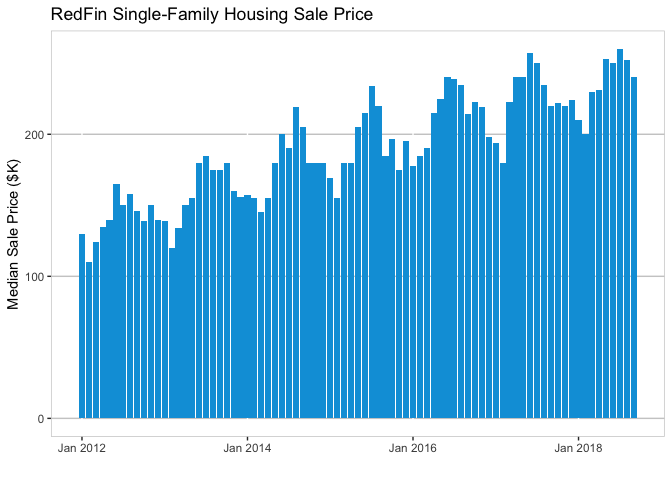
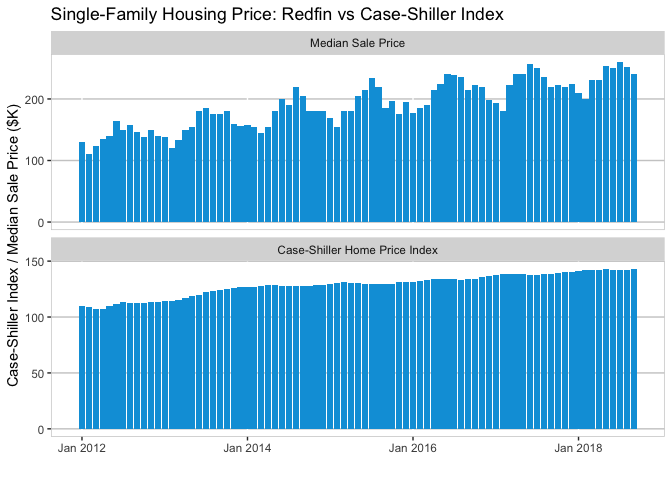
update

Changed region(s): [[0.0, 0.1562, 1.0, 0.8125], [0.0625, 0.0, 1.0, 0.3438], [0.0625, 0.8438, 0.9688, 0.9062]]

diff --git a/predict-case-shiller-index.md b/predict-case-shiller-index.md
@@ -10,51 +10,15 @@ Redfin data center provides monthly real estate information of houses listed on 
 Data Preprocessing
 ==================
 
-This exercise uses Case-Shiller Home Price Index of Chicago downloaded from FRED database using *quantmod* package and Redfin single-family home listing data download from [Redfin Data Center](https://www.redfin.com/blog/data-center).
+This exercise uses Case-Shiller Home Price Index of Chicago downloaded from FRED database using *quantmod* package and Redfin single-family home Chicago listing data downloaded from [Redfin Data Center](https://www.redfin.com/blog/data-center).
 
 ``` r
 # data preprocessing
 require(quantmod)
-```
-
-    ## Loading required package: quantmod
-
-    ## Loading required package: xts
-
-    ## Loading required package: zoo
-
-    ## 
-    ## Attaching package: 'zoo'
-
-    ## The following objects are masked from 'package:base':
-    ## 
-    ##     as.Date, as.Date.numeric
-
-    ## 
-    ## Attaching package: 'xts'
-
-    ## The following objects are masked from 'package:dplyr':
-    ## 
-    ##     first, last
-
-    ## Loading required package: TTR
-
-    ## Version 0.4-0 included new data defaults. See ?getSymbols.
-
-``` r
 require(zoo)
 # download case-shiller housing price index Chicago seasonally adjusted
 getSymbols('CHXRSA', src='FRED')
 ```
-
-    ## 'getSymbols' currently uses auto.assign=TRUE by default, but will
-    ## use auto.assign=FALSE in 0.5-0. You will still be able to use
-    ## 'loadSymbols' to automatically load data. getOption("getSymbols.env")
-    ## and getOption("getSymbols.auto.assign") will still be checked for
-    ## alternate defaults.
-    ## 
-    ## This message is shown once per session and may be disabled by setting 
-    ## options("getSymbols.warning4.0"=FALSE). See ?getSymbols for details.
 
     ## [1] "CHXRSA"
 
@@ -67,23 +31,11 @@ rfDf$Month.of.Period.End <- as.yearmon(rfDf$Month.of.Period.End)
 # process strings into numbers
 rfDf$New.Listings <- as.numeric(gsub(",", "", rfDf$New.Listings))
 rfDf$Inventory <- as.numeric(gsub(",", "", rfDf$Inventory))
-rfDf$Median.Sale.Price <- as.numeric(gsub("\\D", "", rfDf$Median.Sale.Price)) * 1000
+rfDf$Median.Sale.Price <- as.numeric(gsub("\\D", "", rfDf$Median.Sale.Price))
 rfDf$Average.Sale.To.List <- as.numeric(gsub("\\D", "", rfDf$Average.Sale.To.List)) * 0.001
 ```
 
-``` r
-require(ggplot2)
-df <- as.data.frame(CHXRSA)
-df$mon <- as.yearmon(row.names(df))
-
-pltDf <- merge(df, rfDf, by.x = "mon", by.y = "Month.of.Period.End")
-
-p1 <- ggplot(pltDf, aes(x = mon, y = Median.Sale.Price/1000)) + geom_bar(stat = "identity", fill = "#00a0dc") + expand_limits(y = 0) + scale_x_yearmon(breaks =  scales::pretty_breaks(n = 4)) + xlab("") + ylab("Median Sale Price ($K)") + theme(
-  panel.background = element_blank(),
-  panel.grid.major.y = element_line(colour = "grey80"),
-  panel.border = element_rect(colour = "grey80", fill = NA)
-) + ggtitle("RedFin Single-Family Housing Sale Price")
-print(p1)
-```
+Data Visualization
+==================
 
 ![](predict-case-shiller-index_files/figure-markdown_github/eda_plot-1.png)
